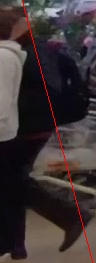
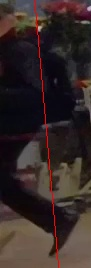
已经好多了！

diff --git a/store_traffic_monitor.py b/store_traffic_monitor.py
@@ -86,8 +86,10 @@ class TrafficMonitor():
         self.cam_in_tracker = VideoStreamTracker(self.yolo_model, self.reid_model,
                                                  self.deepsort, self.dataset_1, None, [],
                                                  self.save_dir_in, True, p1, p2, 0)
-        p2_1 = [0, 0.21]  # 已经还可以了
-        p2_2 = [0.12, 1]
+        # p2_1 = [0, 0.21]
+        # p2_2 = [0.12, 1]
+        p2_1 = [0, 0.21]  # 【如无意外使用这个】已经还可以了
+        p2_2 = [0.08, 1]
 
         # 3 means this camera in store, todo: 'in2' , 'in3' 变量化
         self.cam2_tracker = VideoStreamTracker(self.yolo_model, self.reid_model,
